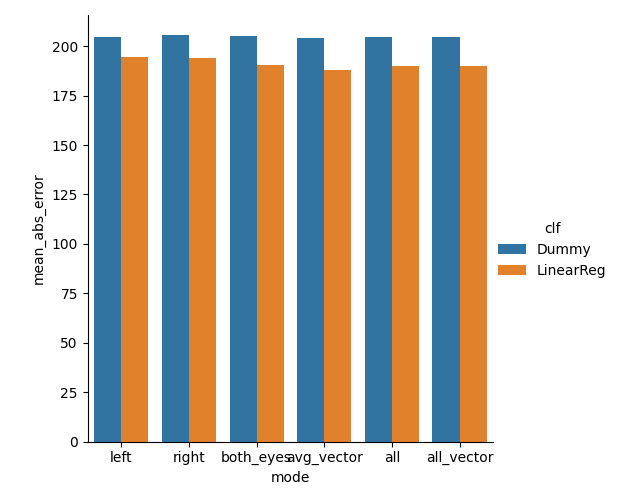
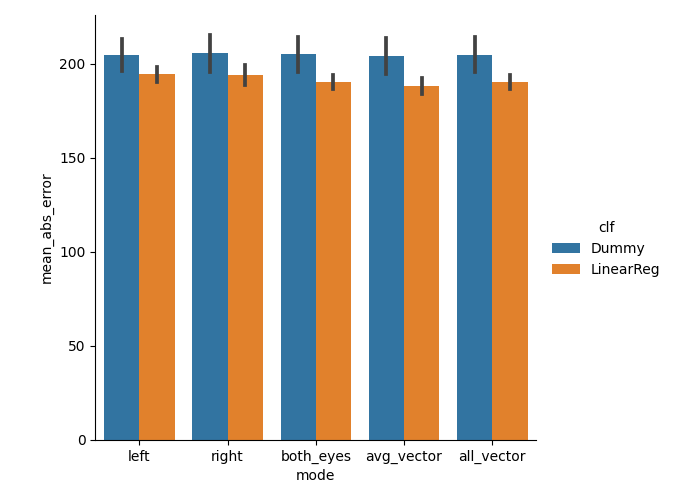
statistical analysis for overall data

diff --git a/stat_analysis.py b/stat_analysis.py
@@ -1,11 +1,13 @@
 import os
 import pandas as pd
 import seaborn as sns
+import math
 
 from statsmodels.formula.api import ols
 from statsmodels.stats.anova import anova_lm
 from statsmodels.stats.multicomp import pairwise_tukeyhsd
 from scipy.stats import ttest_ind
+from scipy.stats import mannwhitneyu
 
 '''from scipy.stats import ttest_rel
 # Calculate the t-test on TWO RELATED samples of scores, a and b.
@@ -21,29 +23,42 @@ result_path = os.path.join('results')
 result_files = [i for i in os.listdir(result_path) if i.endswith('csv')]
 result_file_paths = [os.path.join(result_path, i) for i in result_files]
 
-rfp20 = [i for i in result_file_paths if '20' in i]
+rfp20 = [i for i in result_file_paths if '20' in i]  # result_file_path for those files with '20' time windows
 
-modes = ['left', 'right', 'both_eyes', 'avg_vector', 'all', 'all_vector']
-classifiers = ['Dummy', 'LinearReg', 'Ridge', 'Lasso']
+modes = ['left', 'right', 'both_eyes', 'avg_vector', 'all_vector']
+# classifiers = ['Dummy', 'LinearReg', 'Ridge', 'Lasso']
+classifiers = ['Dummy', 'LinearReg']  # only LR
+# classifiers = ['LinearReg', 'Ridge', 'Lasso']  # only linears
 
 data = pd.DataFrame()
+data_mean = pd.DataFrame()
+data2 = pd.DataFrame()
 for mode in modes:
     file = pd.read_csv([i for i in rfp20 if mode in i][0])
     file = file.drop(file.columns[0], axis=1)
 
-    mean_file = file.mean()
+    file = file[classifiers]
+    # file['mode'] = mode
+    file2 = file.melt(value_name='mean_abs_error')
+    file2 = file2.rename(columns={'variable': 'clf'})
+    file2['mode'] = mode
+    data2 = data2.append(file2)
 
-    x = classifiers  # mean_file.index
-    y = [mean_file[i] for i in classifiers]  # mean_file.values
-    # sns.barplot(x, y)
+    # data = data.append(file)
+    #
+    #     mean_file = file.mean()
+    #     x = classifiers  # mean_file.index
+    #     # y = [file[i] for i in classifiers]
+    #     y = [mean_file[i] for i in classifiers]  # mean_file.values
+    #     # sns.barplot(x, y)
+    #     m = [mode]*len(x)
+    #     data_mean = data_mean.append([[m[i], x[i], y[i]] for i in range(len(x))])
 
-    m = [mode]*len(x)
-    data = data.append([[m[i], x[i], y[i]] for i in range(len(x))])
-
-data.columns = ['mode', 'clf', 'mean_abs_error']
+# data_mean.columns = ['mode', 'clf', 'mean_abs_error']
 
 #
-# g = sns.catplot(data=data, kind='bar', x='mode', y='mean_abs_error', hue='clf')
+g = sns.catplot(data=data_mean, kind='bar', x='mode', y='mean_abs_error', hue='clf')
+# g = sns.catplot(data=data2, kind='bar', x='mode', y='mean_abs_error', hue='clf', ci='sd')
 # only_linear = sns.catplot(data=data[data['clf'] == 'LinearReg'], kind='bar', x='mode', y='mean_abs_error', hue='clf')
 
 
@@ -53,37 +68,72 @@ anova = ols(formula, data).fit()
 aov_table = anova_lm(anova, typ=1)
 
 # tukey
+data = data2[data2['clf']=='LinearReg']
 m_comp = pairwise_tukeyhsd(endog=data['mean_abs_error'], groups=data['clf'] + " / " + data['mode'], alpha=0.05)
 print(m_comp)
 
 # pairwise t-test
-metric = 'mean_abs_error'
-pairwise_ttest = pd.DataFrame()
-ttest_cols = ['clf1', 'clf2', 'statistic', 'p_val']
-for clf1 in classifiers:
-    if clf1 == 'Dummy':
-        continue
-    # clf1 = 'LinearReg'
-    clf2 = 'Dummy'
-    stat, p_val = ttest_ind(data[data['clf'] == clf1][metric], data[data['clf'] == clf2][metric])
-    pairwise_ttest = pairwise_ttest.append([[clf1, clf2, stat, p_val]])
-
-pairwise_ttest.columns = ttest_cols
-pairwise_ttest.to_csv(os.path.join(stat_path, 'pairwise_t_test_linear_v_dummy.csv'))
+# metric = 'mean_abs_error'
+# pairwise_ttest = pd.DataFrame()
+# ttest_cols = ['clf1', 'clf2', 'statistic', 'p_val']
+# for clf1 in classifiers:
+#     if clf1 == 'Dummy':
+#         continue
+#     # clf1 = 'LinearReg'
+#     clf2 = 'Dummy'
+#     stat, p_val = ttest_ind(data[data['clf'] == clf1][metric], data[data['clf'] == clf2][metric])
+#     pairwise_ttest = pairwise_ttest.append([[clf1, clf2, stat, p_val]])
+#
+# pairwise_ttest.columns = ttest_cols
+# pairwise_ttest.to_csv(os.path.join(stat_path, 'pairwise_t_test_linear_v_dummy.csv'))
 
 
 # clf pairwise t_test
+metric = 'mean_abs_error'
+ttest_cols = ['mode', 'clf1', 'clf2', 'statistic_t', 'p_val_t', 'effect_t', 'U1_clf1', 'p_val_mann', 'effect_size_mann', 'new']
 pairwise_ttest_linear = pd.DataFrame()
-clfs_no_dummy = ['LinearReg', 'Ridge', 'Lasso']
-for clf1 in clfs_no_dummy:
-    for clf2 in clfs_no_dummy:
-        if clf1 == clf2:
-            continue
-        stat, p_val = ttest_ind(data[data['clf'] == clf1][metric], data[data['clf'] == clf2][metric])
-        pairwise_ttest_linear = pairwise_ttest_linear.append([[clf1, clf2, stat, p_val]])
+clfs_no_dummy = classifiers
+data = data2  # ['LinearReg', 'Ridge', 'Lasso']
+for mode in modes:
+    # for clf1 in clfs_no_dummy:
+    #     for clf2 in clfs_no_dummy:
+    #         if clf1 == clf2:
+    #             continue
+    clf1 = 'LinearReg'
+    clf2 = 'LinearReg'  # control
+
+    # for m in modes:
+    for m in ['avg_vector']:
+        mode_data_1 = data[(data['clf'] == clf1) & (data['mode'] == mode)][metric]
+        mode_data_2 = data[(data['clf'] == clf2) & (data['mode'] == m)][metric]
+        stat, p_val = ttest_ind(mode_data_1, mode_data_2)
+        U1, p_val_mann = mannwhitneyu(mode_data_1, mode_data_2)
+        n1, n2 = len(mode_data_1), len(mode_data_2)
+        U2 = (n1 * n2) - U1
+        z_mann = (U1 + 0.5) - (((U1+U2)/2) / math.sqrt((n1*n2*(n1+n2+1))/12))
+        effect_mann = U1/(n1*n2)
+        cliff_d = ((2*U1)/(n1*n2)) - 1
+        # effect_mann = stat_mann / math.sqrt(len(mode_data_1) * len(mode_data_2))
+
+        # cohen's effect sizes
+        mean1 = mode_data_1.mean()
+        mean2 = mode_data_2.mean()
+
+        std1 = mode_data_1.std()
+        std2 = mode_data_2.std()
+        pooled_sd = math.sqrt((std1 ** 2 + std2 ** 2) / 2)
+
+        # this will give negative values. In our case, lower is better for mean abs error
+        # so instead of mean1 - mean2, we're gonna do mean2 - mean1 (not absolute)
+        cohen_d = (mean2 - mean1) / pooled_sd
+
+        # pairwise_ttest_linear = pairwise_ttest_linear.append([[mode, clf1, clf2, stat, p_val, cohen_d, U1, p_val_mann, effect_mann, cliff_d]])
+        pairwise_ttest_linear = pairwise_ttest_linear.append(
+            [[clf1, mode, m, stat, p_val, cohen_d, U1, p_val_mann, effect_mann, cliff_d]])
 
 pairwise_ttest_linear.columns = ttest_cols
-pairwise_ttest_linear.to_csv(os.path.join(stat_path, 'pairwise_t_test_linear_models.csv'))
+# pairwise_ttest_linear.to_csv(os.path.join(stat_path, 'pairwise_t_test_linear_reg_vs_dummy.csv'))
+pairwise_ttest_linear.to_csv(os.path.join(stat_path, 'pairwise_t_test_linear_reg_avg_vector.csv'))
 
 
 # ANOVA on linear models with models as factors, mean_absolute_error as dependent variable
@@ -93,7 +143,17 @@ pairwise_ttest_linear.to_csv(os.path.join(stat_path, 'pairwise_t_test_linear_mod
 # aov_table_linear = anova_lm(anova_linear, typ=1)
 
 linear_data = data[data['clf'] != 'Dummy']
-formula = 'mean_abs_error ~ mode * clf'
+formula = 'mean_abs_error ~ mode'
+formula = 'mean_abs_error ~ clf'
 anova_linear = ols(formula, linear_data).fit()
 aov_table_linear = anova_lm(anova_linear, typ=1)
-pd.DataFrame(aov_table_linear).to_csv(os.path.join(stat_path, 'anova_2way_linear_models.csv'))
+
+ss_total = aov_table_linear['sum_sq'].sum()
+ss_between = aov_table_linear['sum_sq']['clf']
+
+eta_sq = ss_between/ss_total
+cohen_f_anova = math.sqrt(eta_sq/(1-eta_sq))
+aov_table_linear['eta_sq'] = eta_sq
+aov_table_linear['cohens_f'] = cohen_f_anova
+
+pd.DataFrame(aov_table_linear).to_csv(os.path.join(stat_path, 'anova_1_way_across_clfs.csv'))
